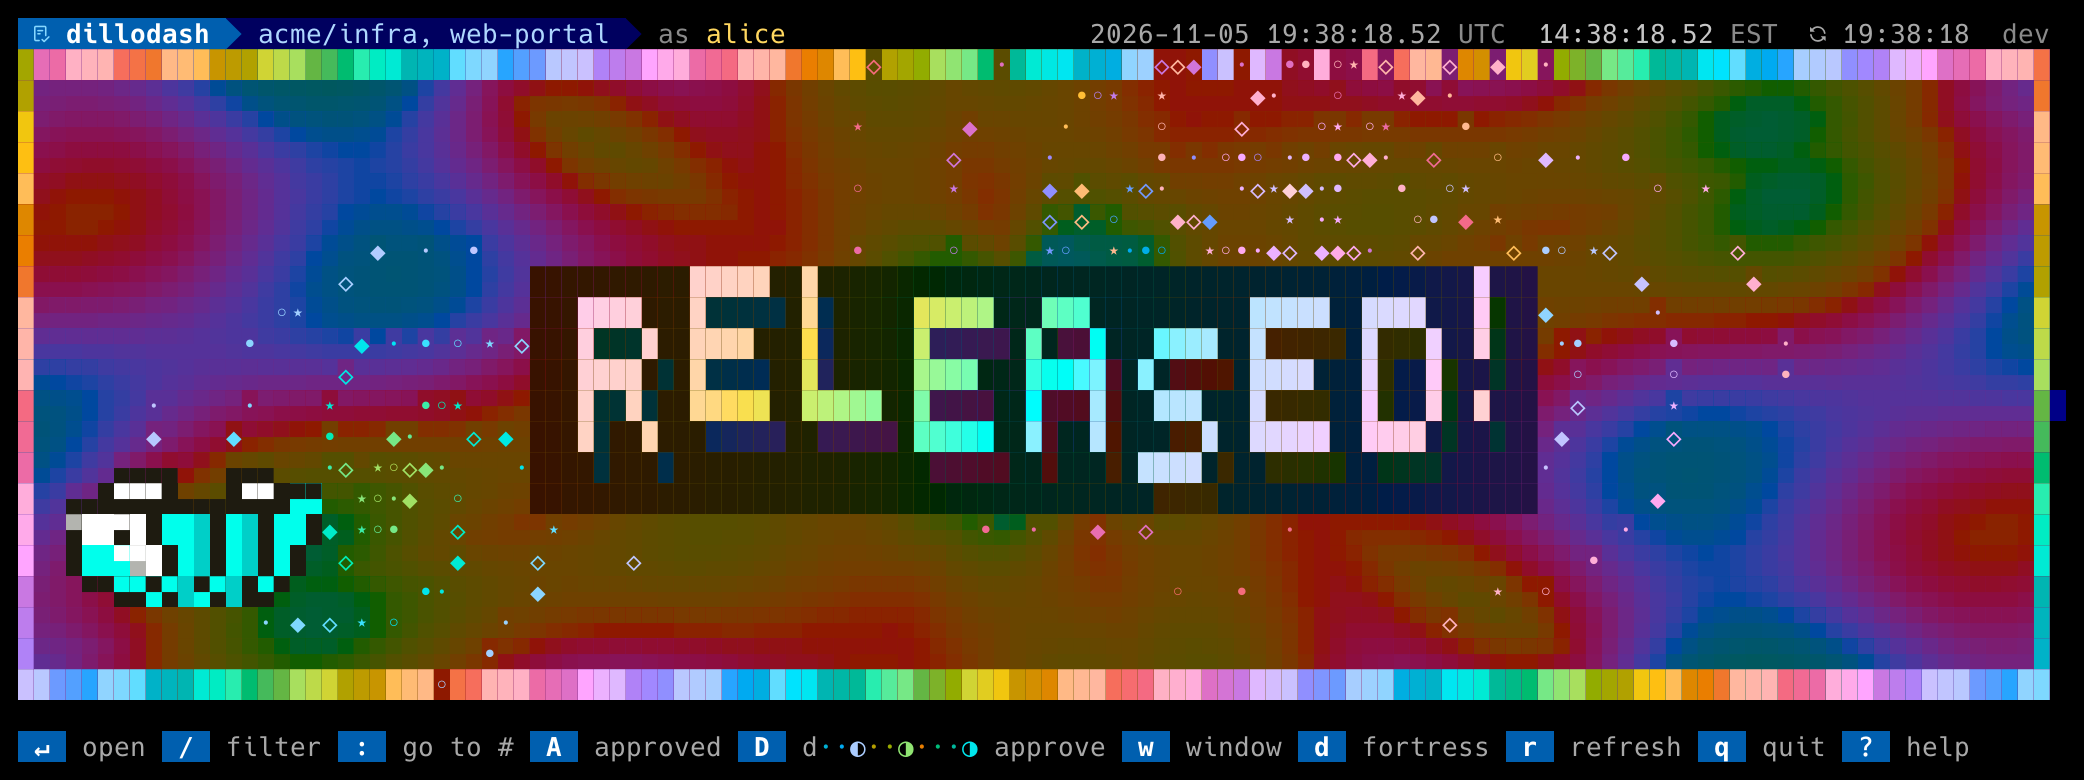
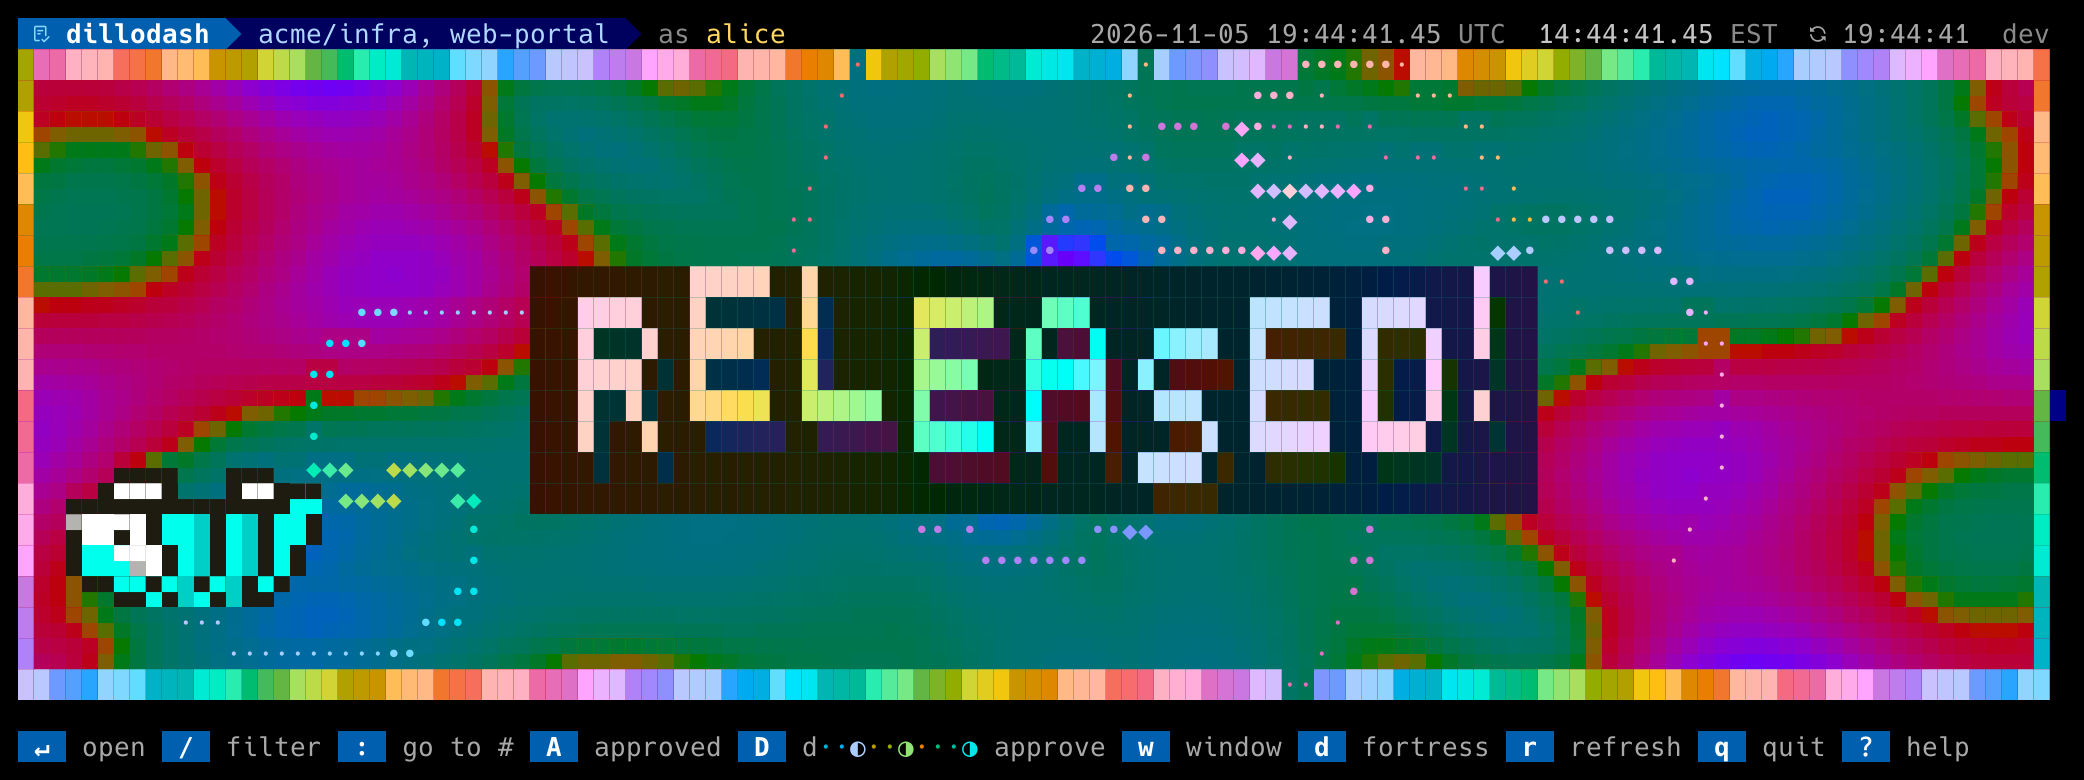
launch: an electric tunnel and a real burst frame
The tunnel's colors run at OKLab lightness 0.50 with chroma as high as
sRGB allows per hue, and the hue wheel hurries through the oranges and
yellows (brown and olive at that lightness) so the magentas, violets,
blues and cyans dominate. The rocket bursts a quarter of the way down,
with room for its galaxy, and the galaxies' arms grade from bold at the
core to fine at the tips so they read as spirals. The plate behind
RELEASED! opens out from the middle and closes for the melt instead of
appearing at once. The burst shot now shows the burst: the ripples and
the first galaxy. The flash guard passes unchanged (worst frame 20% of
the cells, one swing a second at most).

diff --git a/internal/scenes/psyche.go b/internal/scenes/psyche.go
@@ -35,11 +35,13 @@ const (
 	nLvl
 )
 
-// lvlLC is each level's OKLab lightness and chroma.
+// lvlLC is each level's OKLab lightness and chroma. A chroma past the
+// gamut (0.40) means "as vivid as sRGB allows at this hue": fx.OKLCH
+// brings it in per hue without moving the lightness.
 var lvlLC = [nLvl][2]float64{
-	lvPlasmaBG: {0.42, 0.16},
-	lvPlasmaFG: {0.42, 0.16},
-	lvRipple:   {0.51, 0.19},
+	lvPlasmaBG: {0.50, 0.40},
+	lvPlasmaFG: {0.50, 0.40},
+	lvRipple:   {0.58, 0.40},
 	lvMid:      {0.70, 0.17},
 	lvBright:   {0.84, 0.17},
 	lvLetter:   {0.90, 0.16},
@@ -52,11 +54,27 @@ const hueSteps = 120 // 3 degrees
 var levels = func() (t [nLvl][hueSteps]fx.RGB) {
 	for l := range nLvl {
 		for h := range hueSteps {
-			t[l][h] = fx.OKLCH(lvlLC[l][0], lvlLC[l][1], float64(h)*360/hueSteps)
+			deg := float64(h) * 360 / hueSteps
+			if l <= lvRipple {
+				deg = electric(deg)
+			}
+			t[l][h] = fx.OKLCH(lvlLC[l][0], lvlLC[l][1], deg)
 		}
 	}
 	return t
 }()
+
+// electric bends the tunnel's hue wheel: the oranges, yellows and
+// yellow-greens (30-140 degrees, brown and olive at this lightness) take
+// a twentieth of the wheel; the greens, cyans, blues, violets, magentas
+// and reds that glow take the rest.
+func electric(u float64) float64 {
+	u = math.Mod(u, 360)
+	if u < 342 {
+		return 140 + u*250/342
+	}
+	return 30 + (u-342)*110/18
+}
 
 // hue is the level's color at h degrees.
 func hue(l lvl, h float64) fx.RGB { return levels[l][hueAt(h)] }
@@ -202,7 +220,8 @@ func (p *psyche) putOn(y, x int, glyph string, fg, bg fx.RGB) {
 func (p *psyche) rocketAt(te float64) (y, x int) {
 	q := fx.Clamp01(te / rocketSecs)
 	q *= q
-	y = int(math.Round(float64(p.bottom) - float64(p.bottom-p.top-1)*q))
+	peak := p.top + (p.bottom-p.top)/4 // it bursts high, with room for the galaxy
+	y = int(math.Round(float64(p.bottom) - float64(p.bottom-peak)*q))
 	amp := math.Min(float64(p.w)/10, 14) * math.Min(1, te*1.5)
 	x = (p.w-1)/2 + int(math.Round(math.Sin(te*5.5)*amp))
 	return y, x
@@ -228,8 +247,7 @@ func launchPsyche(c *canvas.Canvas, f *fx.Fx, h, w int, el float64, seed uint64,
 	p.ground = make([]fx.RGB, rows*w)
 	p.covered = make([]bool, rows*w)
 
-	_, bx := p.rocketAt(rocketSecs)
-	by := top + 1
+	by, bx := p.rocketAt(rocketSecs)
 	p.tunnel(el, by, bx)
 	p.chaser(el)
 	if el < rocketSecs+0.4 {
@@ -444,7 +462,7 @@ func (p *psyche) galaxies(el float64, seed uint64, by, bx int) {
 	}
 	rnd := rand.New(rand.NewPCG(seed, seed+7))
 	R := math.Max(3, math.Min(float64(p.bottom-p.top)/2.2, float64(p.w)/9))
-	bs := []burst{{rocketSecs, by, bx, rnd.Float64() * 360, 5, 1, R * 1.2}}
+	bs := []burst{{rocketSecs, by, bx, rnd.Float64() * 360, 3, 1, R * 1.5}}
 	for i := 0; i < 8; i++ {
 		ymax := max(p.top+2, (p.top+p.bottom)/2+2)
 		dir := 1.0
@@ -455,11 +473,11 @@ func (p *psyche) galaxies(el float64, seed uint64, by, bx int) {
 			at:  1.9 + 0.45*float64(i),
 			y:   p.top + 2 + rnd.IntN(max(1, ymax-p.top-1)),
 			x:   4 + rnd.IntN(max(1, p.w-8)),
-			hue: rnd.Float64() * 360, arms: 3 + rnd.IntN(3), spin: dir,
+			hue: rnd.Float64() * 360, arms: 2 + rnd.IntN(2), spin: dir,
 			radius: R * (0.7 + 0.5*rnd.Float64()),
 		})
 	}
-	const life, points = 1.9, 22
+	const life, points = 1.9, 48
 	for _, b := range bs {
 		t := el - b.at
 		if t < 0 || t >= life {
@@ -473,11 +491,17 @@ func (p *psyche) galaxies(el float64, seed uint64, by, bx int) {
 		for arm := 0; arm < b.arms; arm++ {
 			for k := 1; k <= points; k++ {
 				s := float64(k) / points
-				ang := float64(arm)*2*math.Pi/float64(b.arms) + b.spin*(s*4.2+t*3.2)
+				ang := float64(arm)*2*math.Pi/float64(b.arms) + b.spin*(s*3.4+t*3.2)
 				y := float64(b.y) + math.Sin(ang)*spread*s + 2.5*t*t
 				x := float64(b.x) + math.Cos(ang)*spread*s*2
-				p.put(int(math.Round(y)), int(math.Round(x)), string(sparks[(k+arm)%len(sparks)]),
-					hue(l, b.hue+s*160+t*120))
+				g := sparks[0] // fine at the tips,
+				switch {
+				case s < 0.35: // bold at the core
+					g = sparks[len(sparks)-1]
+				case s < 0.7:
+					g = sparks[min(1, len(sparks)-1)]
+				}
+				p.put(int(math.Round(y)), int(math.Round(x)), string(g), hue(l, b.hue+s*160+t*120))
 			}
 		}
 		if t < 0.5 {
@@ -610,10 +634,15 @@ func (p *psyche) word(el float64) {
 	if el > landed {
 		sway = int(math.Round(math.Sin((el-landed)*2.2) * 1.5))
 	}
-	// a dark plate behind the word keeps it readable over the tunnel
-	if el > wordAt+0.3 && el < meltAt {
+	// a dark plate behind the word keeps it readable over the tunnel;
+	// it opens out from the middle and closes again for the melt, never
+	// all at once
+	open := fx.EaseOut((el-wordAt-0.2)/0.5) * (1 - fx.EaseInOut((el-meltAt)/0.4))
+	if open > 0 {
+		half := float64(ww+6) / 2 * open
+		cx := float64(x0) + float64(ww-1)/2 + float64(sway)
 		for y := mid - 1; y <= mid+6; y++ {
-			for x := x0 - 3 + sway; x <= x0+ww+2+sway; x++ {
+			for x := int(math.Ceil(cx - half)); float64(x) <= cx+half; x++ {
 				p.put(y, x, block, hue(lvShadow, float64(x)*4+el*90))
 			}
 		}

diff --git a/internal/ui/shots.go b/internal/ui/shots.go
@@ -22,7 +22,7 @@ var ShotCaptions = map[string]string{
 	"release-rail":           "A release in flight on the list: its rail is a pip per phase, filled as it goes, with the phase and its clock",
 	"release-card":           "Mission control for a release in flight: the T+ clock, a rail of one segment per phase, one row per phase with its clock and its technical tail, the run",
 	"release-launch":         "When a release lands: a kaleidoscope tunnel, spiral-galaxy fireworks, Amos tumbling through every hue and RELEASED! swinging in rainbow block letters",
-	"release-launch-burst":   "The rocket climbs the tunnel on a rainbow wiggle, smoke rings and a spiral exhaust behind it, just before it bursts",
+	"release-launch-burst":   "The rocket bursts: rainbow ripples roll out through the tunnel and the first spiral galaxy wheels open",
 	"waiting-runs":           "The waiting approvals section: Actions runs waiting on an environment with no listed PR behind them, approve: prod when you are a reviewer, waits: when someone else is",
 	"waiting-runs-approve":   "D on a waiting run: the environments you review, confirmed before they are approved",
 	"window-card":            "A PR queued for the maintenance window, opened: its plan card, disruptive and revertible",

diff --git a/cmd/screenshot/shots.go b/cmd/screenshot/shots.go
@@ -48,7 +48,7 @@ var shots = []shot{
 	{Name: "release-launch", Steps: []string{"j", "j", "j", "j", "j", "j", "j"},
 		Opts: ui.SnapshotOptions{Motion: true, Clock: 100, Fx: []ui.FxStart{{Name: "launch", Secs: fx.LaunchSecs, Elapsed: 3.1}}}},
 	{Name: "release-launch-burst", Steps: []string{"j", "j", "j", "j", "j", "j", "j"},
-		Opts: ui.SnapshotOptions{Motion: true, Clock: 100, Fx: []ui.FxStart{{Name: "launch", Secs: fx.LaunchSecs, Elapsed: 1.5}}}},
+		Opts: ui.SnapshotOptions{Motion: true, Clock: 100, Fx: []ui.FxStart{{Name: "launch", Secs: fx.LaunchSecs, Elapsed: 2.05}}}},
 	{Name: "waiting-runs", Steps: []string{"j", "j", "j", "j", "j"}, Expect: []string{"waiting approvals", "approve: prod"}},
 	{Name: "waiting-runs-approve", Steps: []string{"j", "j", "j", "j", "j", "D"}, Expect: []string{"approve 1 deployment of infra deploy run 7101"}},
 	{Name: "window-card", Steps: []string{"G", "k", "k", "k", "enter"}, Expect: []string{"infra#43", "staging/15-canary"}},

diff --git a/docs/workflows/release-pr.md b/docs/workflows/release-pr.md
@@ -233,7 +233,7 @@ replays one offline; these shots are its steps.
 
 ![Mission control for a release in flight: the T+ clock, a rail of one segment per phase, one row per phase with its clock and its technical tail, the run](../shots/release-card.png)
 
-![The rocket climbs the tunnel on a rainbow wiggle, smoke rings and a spiral exhaust behind it, just before it bursts](../shots/release-launch-burst.png)
+![The rocket bursts: rainbow ripples roll out through the tunnel and the first spiral galaxy wheels open](../shots/release-launch-burst.png)
 
 ![When a release lands: a kaleidoscope tunnel, spiral-galaxy fireworks, Amos tumbling through every hue and RELEASED! swinging in rainbow block letters](../shots/release-launch.png)
 
